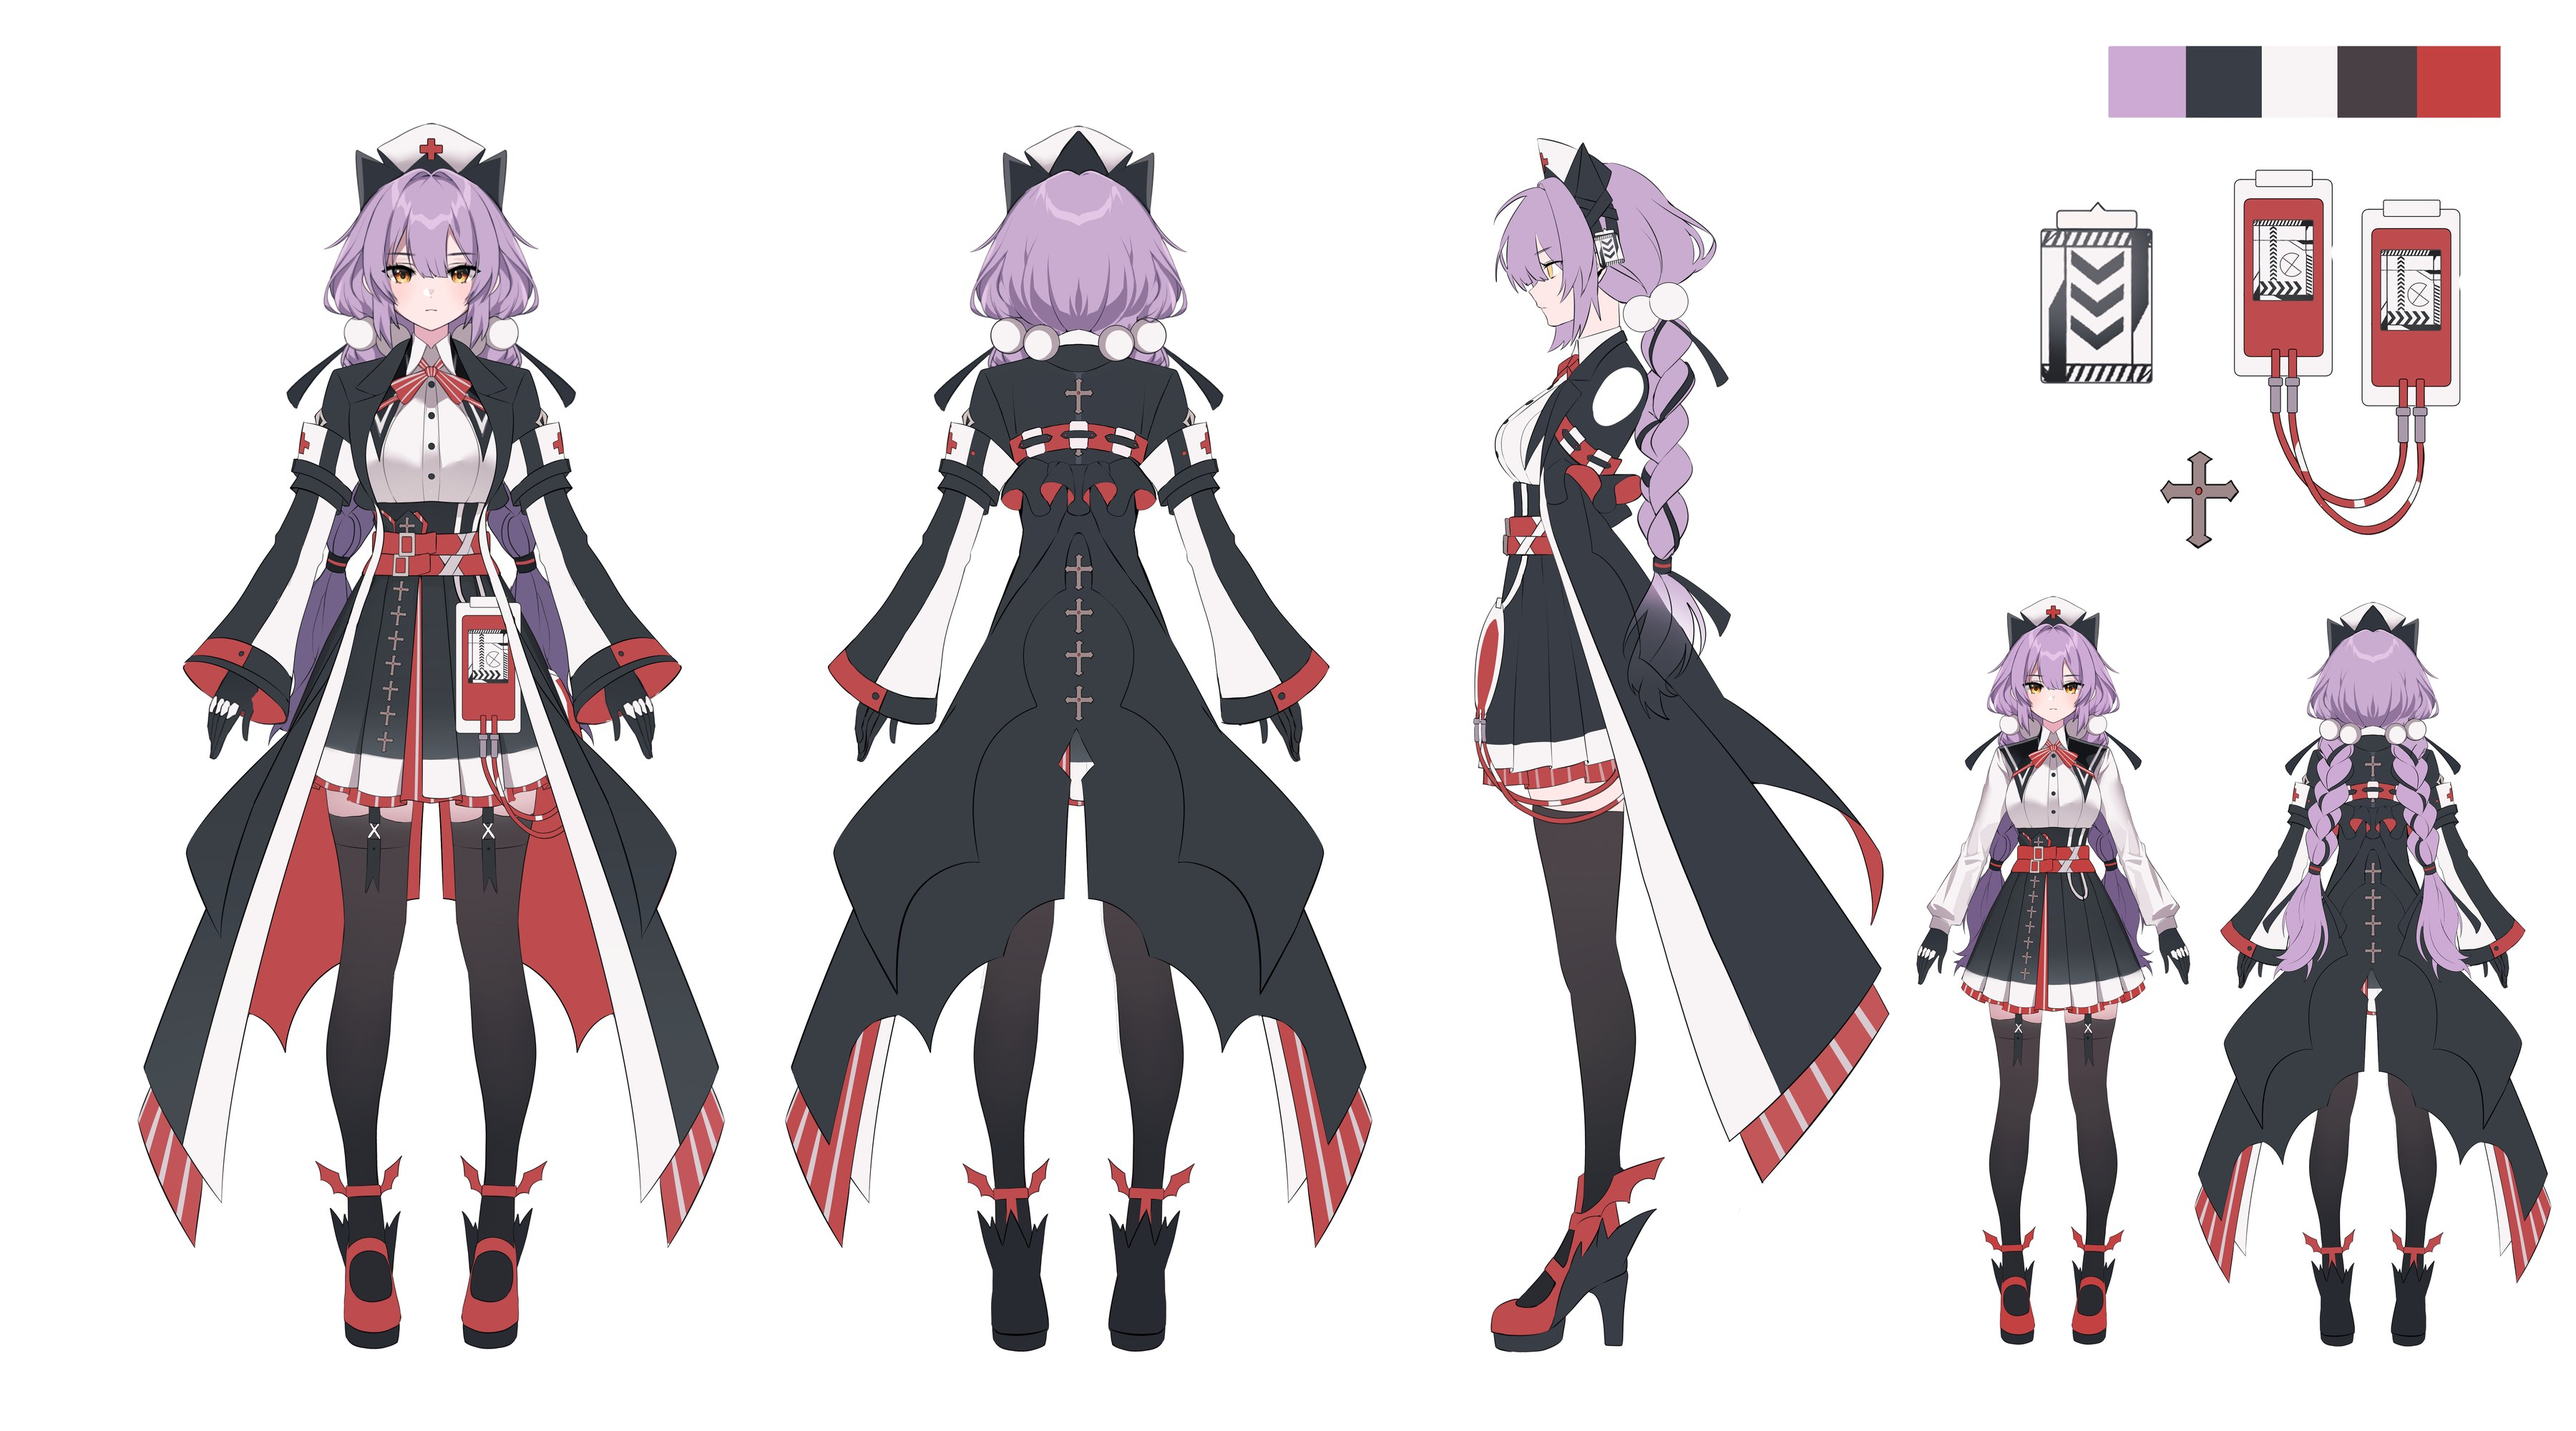
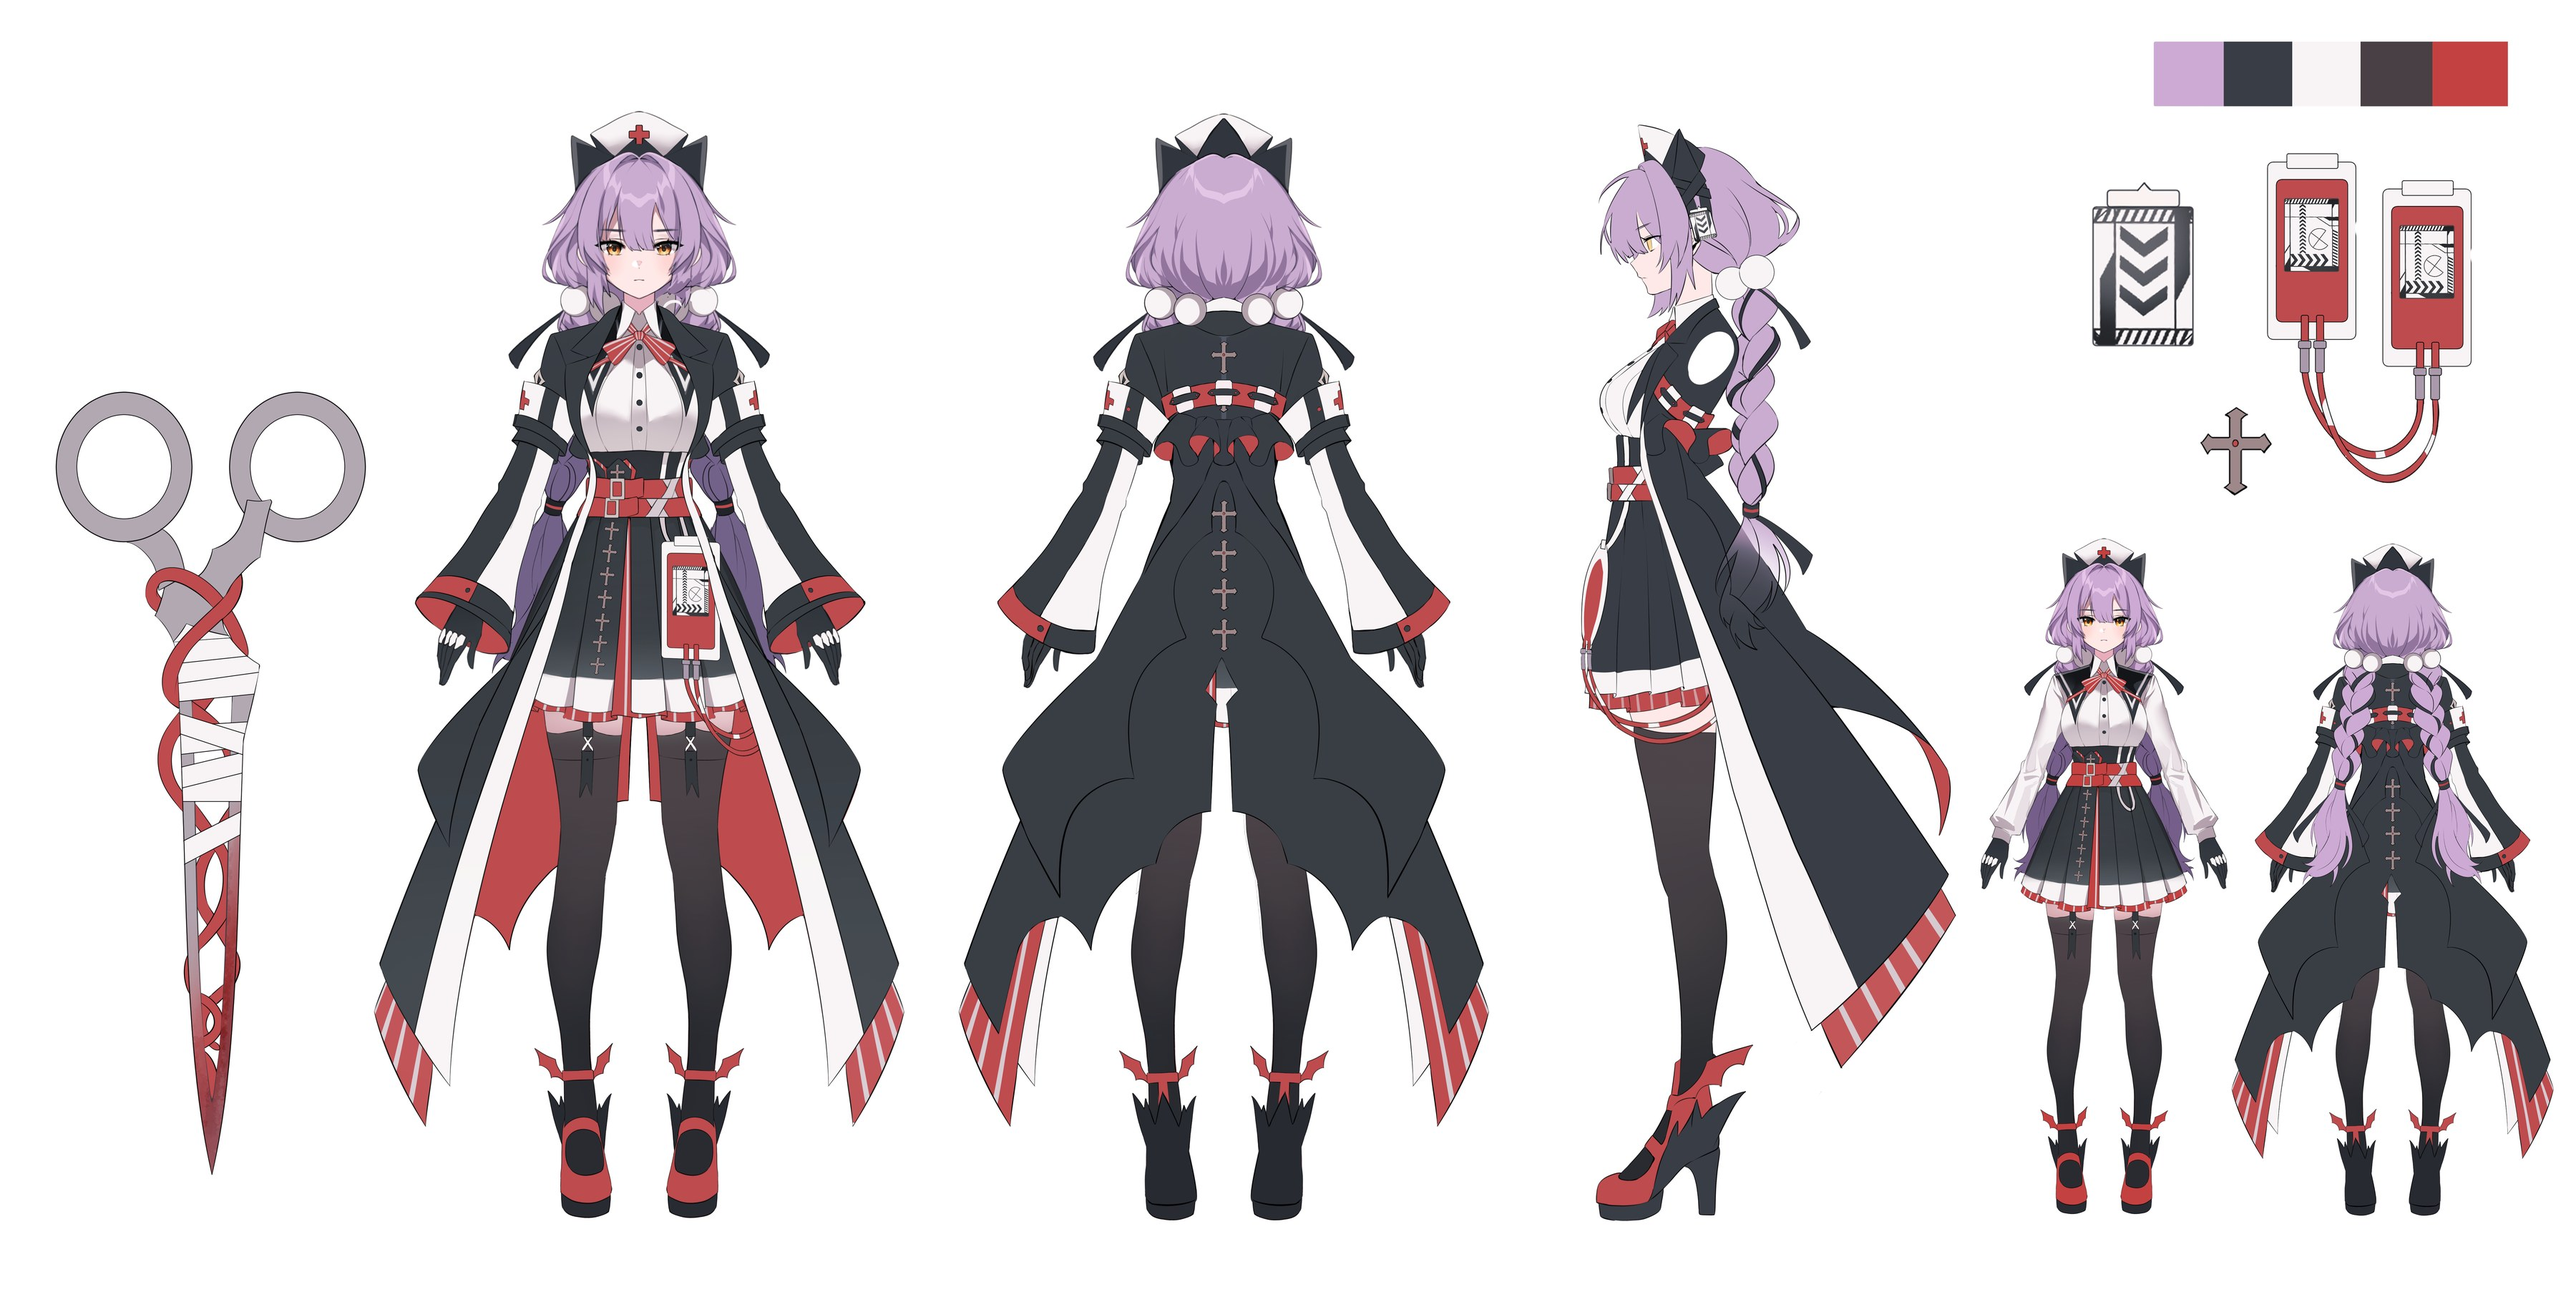
update

diff --git a/index.html b/index.html
@@ -958,8 +958,8 @@ const PROJECTS = {
     desc:'서브컬쳐 스타일 캐릭터 일러스트 모음.',
     descEn:'Subculture-style character illustrations.',
     tools:['Clip Studio Paint','Photoshop'],
-    images:['assets/img/illust/anime/purple-evening-illustration.jpg','assets/img/illust/anime/catgirl-expression-sheet.jpg','assets/img/illust/anime/catgirl-turnaround-sheet.jpg','assets/img/illust/anime/mint-character-concept-sheet.jpg','assets/img/illust/anime/male-character-blue.jpg','assets/img/illust/anime/male-character-red.jpg','assets/img/illust/anime/anime-04.jpg','assets/img/illust/anime/anime-03.jpg','assets/img/illust/anime/anime-02.jpg','assets/img/illust/anime/anime-05.jpg','assets/img/illust/anime/anime-06.jpg'],
-    times:['','','','','','','6h','5h','2–3h','2h','6h']}
+    images:['assets/img/illust/anime/purple-evening-illustration.jpg','assets/img/illust/anime/catgirl-expression-sheet.jpg','assets/img/illust/anime/catgirl-turnaround-sheet.jpg','assets/img/illust/anime/purple-dress-turnaround-sheet.jpg','assets/img/illust/anime/mint-character-concept-sheet.jpg','assets/img/illust/anime/male-character-blue.jpg','assets/img/illust/anime/male-character-red.jpg','assets/img/illust/anime/anime-04.jpg','assets/img/illust/anime/anime-03.jpg','assets/img/illust/anime/anime-02.jpg','assets/img/illust/anime/anime-05.jpg','assets/img/illust/anime/anime-06.jpg'],
+    times:['','','','','','','','6h','5h','2–3h','2h','6h']}
 };
 
 const backdrop=document.getElementById('backdrop'),modal=document.getElementById('modal'),mBack=document.getElementById('modal-back');
